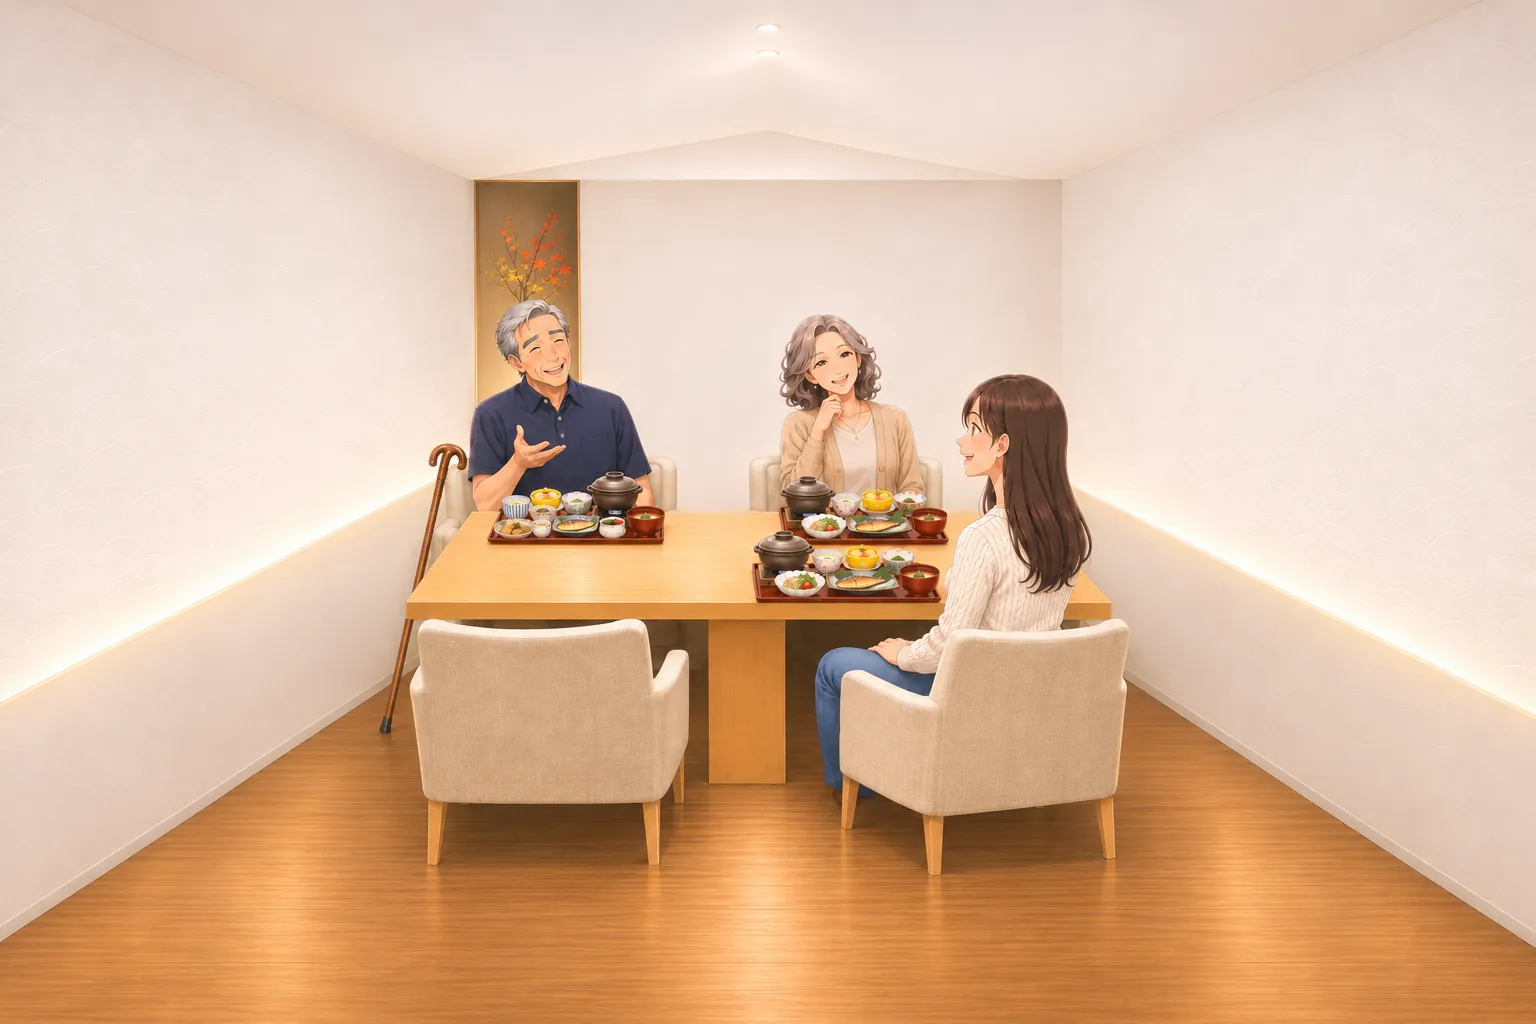
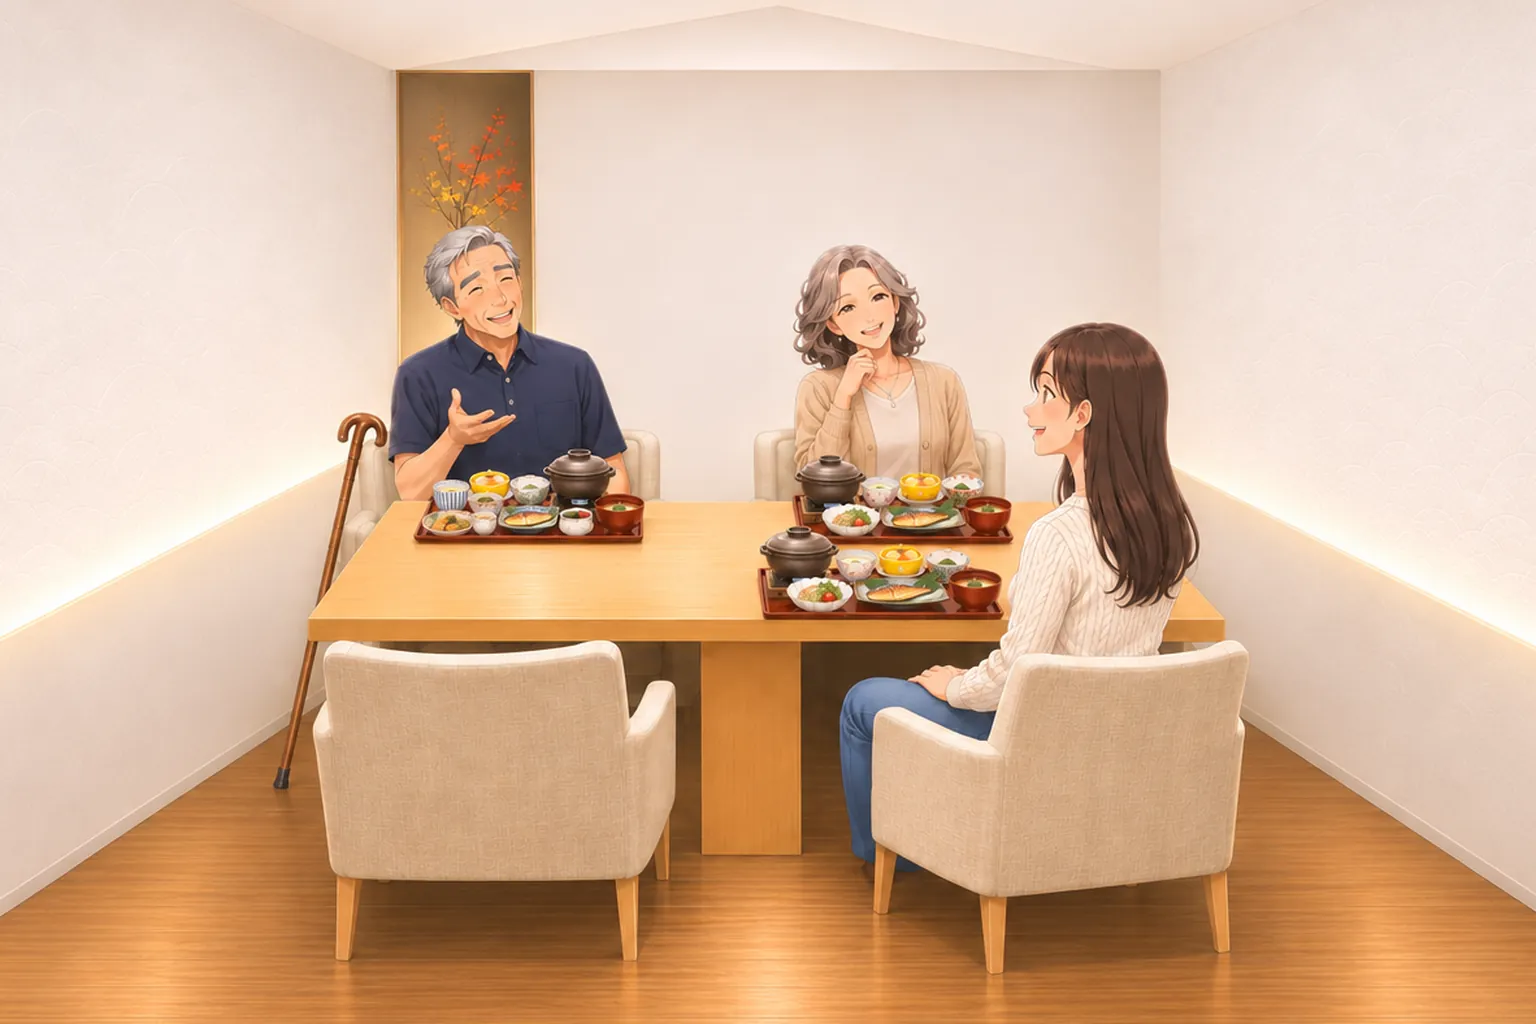
足音・お茶の説明・八寸・35年・お箸・写真の2本指ズームと指の向き・朝食の個室ほか

diff --git a/js/main.js b/js/main.js
@@ -483,7 +483,7 @@ async function showWalk() {
     e.preventDefault(); game.hold(v); hold.classList.toggle('on', v);
     clearInterval(stepT);
     // 廊下は靴の足音（右・左を交互に）。押している間、だいたい歩く速さで鳴らす
-    if (v) { let k = 0; const st = () => audio.se(k++ % 2 ? 'walk2' : 'walk1', 0.9); st(); stepT = setInterval(st, 520 / TIME_SCALE); }
+    if (v) { let k = 0; const st = () => audio.se(k++ % 2 ? 'walk2' : 'walk1', 0.75); st(); stepT = setInterval(st, 600 / TIME_SCALE); }
   };
   hold.addEventListener('pointerdown', on(true));
   ['pointerup', 'pointercancel', 'pointerleave'].forEach((t) => hold.addEventListener(t, on(false)));
@@ -607,7 +607,7 @@ function showDrink() {
   drinkQueue = []; drinkDone = false;
   ui.panel.hidden = false;
   ui.panel.className = 'panel drink-panel';
-  ui.panel.appendChild(el('div', 'sheet drink-ui', '<div class="glass"><i class="gl"></i><span class="lab">ご家族のグラス</span><span class="bar"><i></i></span><span class="lt"></span></div>'));
+  ui.panel.appendChild(el('div', 'sheet drink-ui', '<div class="glass"><i class="gl"></i><span class="lab">ご家族のグラス</span><span class="bar"><i></i></span><span class="lt"></span></div><p class="how">下のボタンからお話を選べます。お部屋へご案内するタイミングは、あなたが決めよう。</p>'));
   showLine('daughter', 'このドリンク、おいしい……。お庭を見ながら飲めるなんて、ぜいたくだね。');
   renderDrinkChoices();
 }
@@ -753,12 +753,13 @@ function showChop() {
   ui.panel.hidden = false;
   const wrap = el('div', 'sheet chop-ui');
   wrap.appendChild(el('h3', '', '朝食のお膳に、お箸を並べる'));
-  wrap.appendChild(el('p', 'legend', 'お箸は、ふつう<b>箸先を左</b>に向けて置きます（右手で取りやすいように）。お客さまに合わせて向きを変えるときは、お膳をタップ。'));
+  wrap.appendChild(el('p', 'legend', 'お箸は、ふつう<b>箸先を左</b>に向けて置きます（右手で取りやすいように）。お客さまに合わせて向きを変えるときは、<b class="tap">お膳をタップ</b>。'));
   const trays = el('div', 'trays');
   [['father', 'お父さま'], ['mother', 'お母さま'], ['daughter', '娘さま']].forEach(([id, name]) => {
-    const t = el('button', 'tray', `<span class="who">${name}</span><span class="zen"><img class="ti" src="${PROPS.tray}" alt=""><img class="sticks" src="${PROPS.chop}" alt="お箸"></span><span class="dir">箸先：左</span>`);
+    const t = el('button', 'tray hint', `<span class="who">${name}</span><span class="zen"><img class="ti" src="${PROPS.tray}" alt=""><img class="sticks" src="${PROPS.chop}" alt="お箸"></span><span class="dir">箸先：左</span>`);
     t.dataset.id = id;
     t.addEventListener('click', () => {
+      trays.querySelectorAll('.tray').forEach((x) => x.classList.remove('hint'));
       game.flip(id);
       const f = game.chop.flipped[id];
       t.classList.toggle('flip', f);
@@ -787,7 +788,7 @@ async function showPhoto() {
     <div class="top"><div class="hint"><img src="img/senpai_face.webp" alt=""><p>3人ともお顔がそろって、うしろに「円石」が入るといいね。家族円満の石だから。</p></div></div>
     <div class="finder" id="finder"><canvas id="pcanvas"></canvas><div class="grid"></div>
       <i class="corner tl"></i><i class="corner tr"></i><i class="corner bl"></i><i class="corner br"></i>
-      <div class="drag">指でなぞって向きを変える</div><div class="tags" id="ptags"></div></div>
+      <div class="drag">1本指でなぞる：向き　2本指でつまむ：ズーム</div><div class="tags" id="ptags"></div></div>
     <div class="ctrl">
       <div class="row"><span class="lab">立ち位置</span><div class="spots"><button class="spot" data-i="0">左</button><button class="spot on" data-i="1">正面</button><button class="spot" data-i="2">右</button></div></div>
       <div class="row"><span class="lab">ズーム</span><span class="zl">引き</span><input id="pzoom" type="range" min="0" max="100" value="85" aria-label="ズーム（左で引き・右で寄り）"><span class="zl">寄り</span></div>
@@ -801,21 +802,38 @@ async function showPhoto() {
   photo = await createPhotoScene({ canvas: $('pcanvas'), bg: 'img/bg_maruishi.webp', family: FAMILY, low: params.get('q') === 'low' });
   ui.app.classList.add('in3d');
   const finder = $('finder');
-  let drag = null;
-  finder.addEventListener('pointerdown', (e) => { drag = { x: e.clientX, y: e.clientY }; finder.setPointerCapture(e.pointerId); });
-  finder.addEventListener('pointermove', (e) => {
-    if (!drag) return;
-    const k = (photo.cam.fov * Math.PI / 180) / finder.clientHeight;
-    photo.turn((e.clientX - drag.x) * k, (e.clientY - drag.y) * k);
-    drag = { x: e.clientX, y: e.clientY };
+  // 1本指でなぞると向きが変わり、2本指でつまむとズーム（PCはマウスのホイールでもズーム）
+  const pts = new Map();
+  let pinch = null;
+  const zoomTo = (z) => { z = Math.max(0, Math.min(1, z)); photo.setZoom(z); $('pzoom').value = Math.round(z * 100); };
+  const dist = () => { const [a, b] = [...pts.values()]; return Math.hypot(a.x - b.x, a.y - b.y); };
+  finder.addEventListener('pointerdown', (e) => {
+    pts.set(e.pointerId, { x: e.clientX, y: e.clientY }); finder.setPointerCapture(e.pointerId);
+    if (pts.size === 2) pinch = { d: dist(), z: photo.view().zoom };
+    finder.classList.add('touched');
   });
-  finder.addEventListener('pointerup', () => { drag = null; });
+  finder.addEventListener('pointermove', (e) => {
+    const p = pts.get(e.pointerId);
+    if (!p) return;
+    if (pts.size >= 2 && pinch) {
+      pts.set(e.pointerId, { x: e.clientX, y: e.clientY });
+      zoomTo(pinch.z + (dist() - pinch.d) / (finder.clientWidth * 0.8));   // 指を広げると寄る
+      return;
+    }
+    const k = (photo.cam.fov * Math.PI / 180) / finder.clientHeight;
+    photo.turn(-(e.clientX - p.x) * k, -(e.clientY - p.y) * k);   // 景色を指でつかんで動かす向き（スマホの地図や写真と同じ）
+    pts.set(e.pointerId, { x: e.clientX, y: e.clientY });
+  });
+  const up = (e) => { pts.delete(e.pointerId); if (pts.size < 2) pinch = null; };
+  finder.addEventListener('pointerup', up); finder.addEventListener('pointercancel', up);
+  finder.addEventListener('wheel', (e) => { e.preventDefault(); zoomTo(photo.view().zoom - e.deltaY / 1500); }, { passive: false });
   ui.panel.querySelectorAll('.spot').forEach((b) => b.addEventListener('click', () => {
     ui.panel.querySelectorAll('.spot').forEach((x) => x.classList.toggle('on', x === b));
     photo.setSpot(Number(b.dataset.i)); audio.se('step', 0.2);
   }));
   $('pzoom').addEventListener('input', (e) => photo.setZoom(Number(e.target.value) / 100));
-  $('pcall').addEventListener('click', () => { game.photoCall(); audio.se('select', 0.4); });
+  $('pcall').addEventListener('click', () => { $('pcall').classList.remove('blink'); game.photoCall(); audio.se('select', 0.4); });
+  $('pcall').classList.add('blink');   // 最初は「声をかける」をゆっくり光らせる（押したら止める）
   $('pshutter').addEventListener('click', () => {
     const shot = game.shoot(photo.view());
     if (!shot) return;

diff --git a/js/logic.js b/js/logic.js
@@ -184,21 +184,22 @@ export const STORY = [
   { t: 'line', who: 'senpai', text: 'ご案内おつかれさま！ 夕食まで、いったん休憩ね。勤務は朝と午後に分かれてて、間の時間は寮で休めるんだよ。', perk: 'nakanuke' },
 
   { t: 'scene', id: 'kitchen' },
-  { t: 'line', who: 'chef', text: '202号室さんの八寸、もうすぐ出せるよ。聞いておきたいことはある？' },
+  { t: 'line', who: 'chef', text: '202号室さんの八寸（はっすん）、もうすぐ出せるよ。季節の味を少しずつ盛り合わせた、会席のはじめのひと皿だ。聞いておきたいことはある？' },
   { t: 'kitchen' },
   { t: 'line', who: 'chef', text: 'お客さまに、よろしく伝えてね。' },
 
   { t: 'scene', id: 'dinner' },
   { t: 'line', who: 'senpai', when: not('seat'), face: 'worry', text: '（小声で）お父さま、掘りごたつに座るの、少しつらそうだね……。' },
   { t: 'line', who: 'father', when: has('seat'), text: '椅子だと楽だねえ。料理がいっそううまそうに見えるよ。' },
-  { t: 'choice', id: 'explain', prompt: '八寸をお出しする。ひとこと添えるなら？', options: 'explain' },
+  { t: 'choice', id: 'explain', prompt: '八寸（季節の味の盛り合わせ）をお出しする。ひとこと添えるなら？', options: 'explain' },
   { t: 'react' },   // 料理のひとことへの、お客さまの反応（聞いたことで変わる）
   { t: 'line', who: 'mother', text: '（お箸を手に取って、向きを左右逆に置き直す）……あら、ごめんなさいね。私、左利きなものだから。' },
   { t: 'line', who: 'father', text: 'いやあ、修善寺は35年ぶりだなあ。あのときも、ちょうど紅葉がきれいでね。', notice: 'anniv' },
+  { t: 'line', who: 'mother', text: 'ふふ。あれから、ちょうど35年。……あのときは、二人きりの旅だったわね。' },
   {
     t: 'choice', id: 'anniv', prompt: 'お父さまの言葉に、どうする？', hint: '今のお話、なにか気になることはない？',
     options: [
-      { tag: 'たずねる', text: '「何かのお祝いのご旅行ですか？」', flag: 'anniv' },
+      { tag: 'たずねる', text: '「もしかして、何かの記念のご旅行ですか？」', flag: 'anniv' },
       { tag: '相づち', text: '「35年前も、紅葉の季節にいらしたんですね」' },
       { tag: '案内する', text: '「明日は竹林の小径もおすすめです」' },
     ],

diff --git a/css/game.css b/css/game.css
@@ -280,7 +280,7 @@
 .result .perks { display: grid; gap: 6px; }
 
 /* ドリンクのグラスの帯と重ならないよう、気づきの知らせを下げる */
-.screen:has(.drink-panel) .kizuki-pop { top: 124px; }
+.screen:has(.drink-panel) .kizuki-pop { top: 178px; }
 
 /* ロビー：お出ししたグラス（背景の絵の上に、ふわっと置く） */
 .glass-layer { position: absolute; inset: 0; pointer-events: none; }
@@ -406,3 +406,16 @@
 @media (min-aspect-ratio: 1/1) { .chara-slot img { height: 128%; bottom: -38%; } }
 @media (min-aspect-ratio: 1/1) and (max-height: 500px) { .chara-slot img { height: 132%; bottom: -36%; } }
 @media (max-aspect-ratio: 1/1) and (max-height: 720px) { .chara-slot img { height: 78%; bottom: -24%; } }
+
+/* お茶の場面：押してよいことの説明 */
+.drink-ui .how { margin-top: 1.5mm; margin-top: 6px; font-family: var(--gothic); font-size: 11.5px; line-height: 1.5; color: var(--teal-deep); }
+/* お箸：はじめは、お膳を押せることを波紋で知らせる。下の文字もボタンらしく */
+.chop-ui .tray.hint .zen::after { content: ''; position: absolute; left: 50%; top: 55%; width: 46px; height: 46px; margin: -23px 0 0 -23px; border-radius: 50%; border: 2px solid rgba(214,121,121,.95); animation: ripple 1.6s ease-out infinite; pointer-events: none; }
+.chop-ui .tray .dir { display: inline-block; margin-top: 5px; padding: 3px 10px; border-radius: 999px; border: 1px solid var(--teal); background: #fff; }
+.chop-ui .tray .dir { white-space: nowrap; padding: 3px 8px; }
+.chop-ui .tray .dir::after { content: ' ⇄'; color: var(--teal-deep); }
+.chop-ui .legend b.tap { color: #b5402e; }
+/* 記念写真：「声をかける」をゆっくり光らせる（点滅はさせない） */
+@keyframes callGlow { 0%, 100% { box-shadow: 0 0 0 0 rgba(232,199,106,0); } 50% { box-shadow: 0 0 0 6px rgba(232,199,106,.55); } }
+.photo-ui .call.blink { animation: callGlow 1.6s ease-in-out infinite; border-color: #e8c76a !important; }
+.photo-ui .finder { touch-action: none; }
